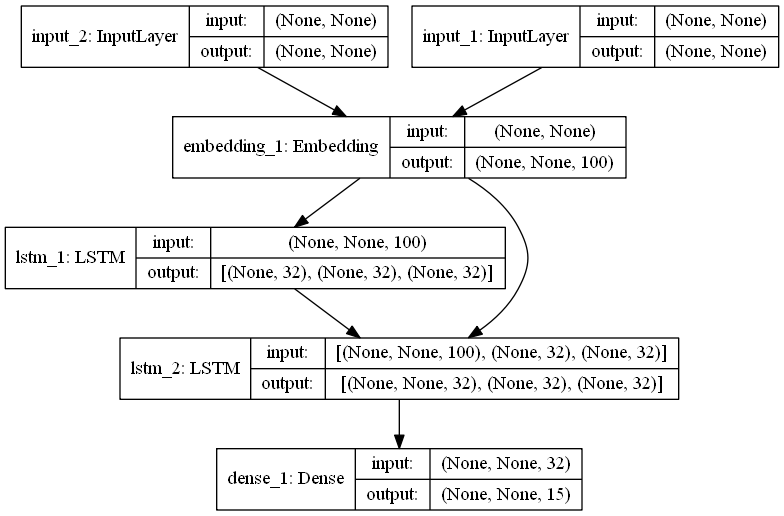
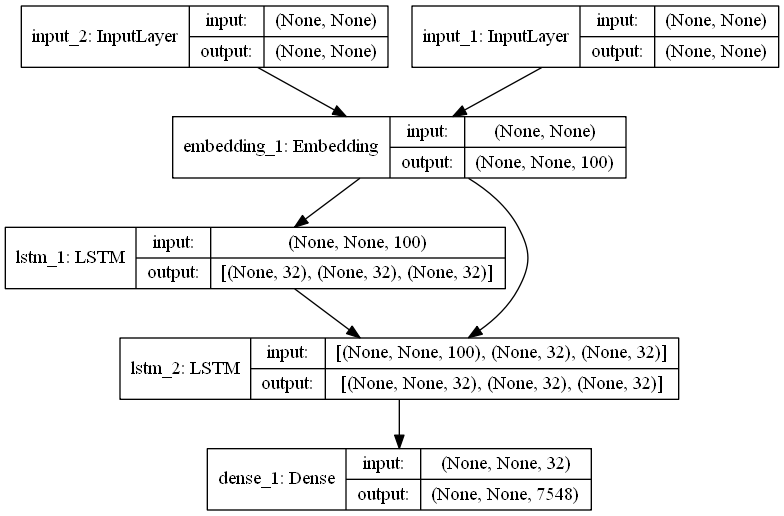
use model ok

Changed region(s): [[0.2755, 0.8682, 0.7653, 0.9922], [0.2449, 0.9612, 0.2755, 0.9922], [0.2449, 0.8682, 0.2755, 0.8992]]

diff --git a/seq2seq/lstm/use_model.py b/seq2seq/lstm/use_model.py
@@ -1,0 +1,119 @@
+import sys
+sup_dir = 'D:\\ML\\NLP\\booking.com'
+sys.path.append(sup_dir)
+
+import argparse
+import numpy as np
+
+from keras.models import Model, load_model
+from keras.layers import Input, LSTM, Dense
+from keras.utils import print_summary, plot_model
+
+from word_preprocess import Preprocess
+
+
+
+def wrd2vec(args, comment):
+    preprocess = Preprocess(comment, args)
+    word_vector = preprocess.get_embedding(load=True)
+    index = preprocess.get_indices()
+    
+    return index, preprocess
+
+
+def reply_model():
+    model = load_model('./model/lstm_s2s.h5')
+    
+    encoder_input= model.inputs[0]   
+    encoder_output = model.get_layer('lstm_1').output
+    encoder_model = Model([encoder_input], encoder_output)
+    plot_model(encoder_model, './image/lstm_encoder.png', show_shapes=True)
+
+    decoder_input = model.inputs[1]
+    decoder_input_h = Input(shape=(encoder_output[1].shape[1],), name='input_3')
+    decoder_input_c = Input(shape=(encoder_output[2].shape[1],), name='input_4')
+    decoder_input_state = [decoder_input_h, decoder_input_c]
+    decoder_embed = model.get_layer('embedding_1').get_output_at(1)
+    decoder_lstm = model.get_layer('lstm_2')
+    lstm_output, decoder_output_h, decoder_output_c = decoder_lstm(decoder_embed, 
+                                            initial_state=decoder_input_state)
+    decoder_output_state = [decoder_output_h, decoder_output_c]                                        
+    decoder_output = model.get_layer('dense_1')(lstm_output)
+    decoder_model = Model([decoder_input] + decoder_input_state, 
+                        [decoder_output] + decoder_output_state)
+    plot_model(decoder_model, './image/lstm_decoder.png', show_shapes=True)
+
+    return encoder_model, decoder_model
+
+
+def decode_sequence(args, encoder, decoder, comment_index, preprocess):
+    # Encode the input as state vectors.
+    # index = np.expand_dims(comment_index, axis=0)
+    states_value = encoder.predict([comment_index])[1:]
+
+    # Generate empty target sequence of length 1.
+    target_seq = np.zeros((1, 1)) 
+    # Populate the first character of target sequence with the start character.
+    target_seq[0, 0] = preprocess.word2index['句子開頭']
+
+    # Sampling loop for a batch of sequences
+    # (to simplify, here we assume a batch of size 1).
+    stop_condition = False
+    decoded_sentence = ''
+    while not stop_condition:
+        output_tokens, h, c = decoder.predict([target_seq] + states_value)
+
+        # Sample a token
+        sampled_token_index = np.argmax(output_tokens[0, -1, :])
+        sampled_char = preprocess.index2word[sampled_token_index]
+        
+        # Exit condition: either hit max length
+        # or find stop character.
+        if (sampled_char == '句子結尾' or len(decoded_sentence) > args.seq_len):
+            stop_condition = True
+        else:
+            decoded_sentence += sampled_char
+            
+        # Update the target sequence (of length 1).
+        target_seq = np.zeros((1, 1))
+        target_seq[0, 0] = sampled_token_index
+
+        # Update states
+        states_value = [h, c]
+
+    return decoded_sentence
+
+
+def main(args):
+    if args.comment:
+        comment = [' '.join(args.comment) if args.comment else ' ']
+        comment_index, preprocess = wrd2vec(args, comment)
+
+        print('=== show comment cut')
+        print(comment)   
+        for idx in range(comment_index.shape[1]):
+            nn = comment_index[0][idx]
+            print(preprocess.index2word[nn], end=' | ')
+        print('\n')
+        
+        print('=== show reply result')
+        encoder, decoder = reply_model()
+        decoded_sentence = decode_sequence(args, encoder, decoder, comment_index, preprocess)
+        print(decoded_sentence)
+
+    else:
+        print('No comment No reply')
+
+if __name__ == "__main__":
+    parser = argparse.ArgumentParser()
+
+    parser.add_argument('jieba_lib',type=str, help='[Input] Your jieba dict.txt.big')
+    parser.add_argument('--comment', default=None, type=str, nargs='+')
+
+    parser.add_argument('--seq_len', default=50, type=int) # 句子長度
+    parser.add_argument('--word_dim', default=100, type=int) # 詞向量維度
+    parser.add_argument('--wndw', default=5, type=int) # 給前後幾個詞來預測中間的詞
+    parser.add_argument('--cnt', default=3, type=int) # 只對在訓練資料中出現超過一定次數的詞做詞轉向量
+    
+    args = parser.parse_args()
+    main(args)
